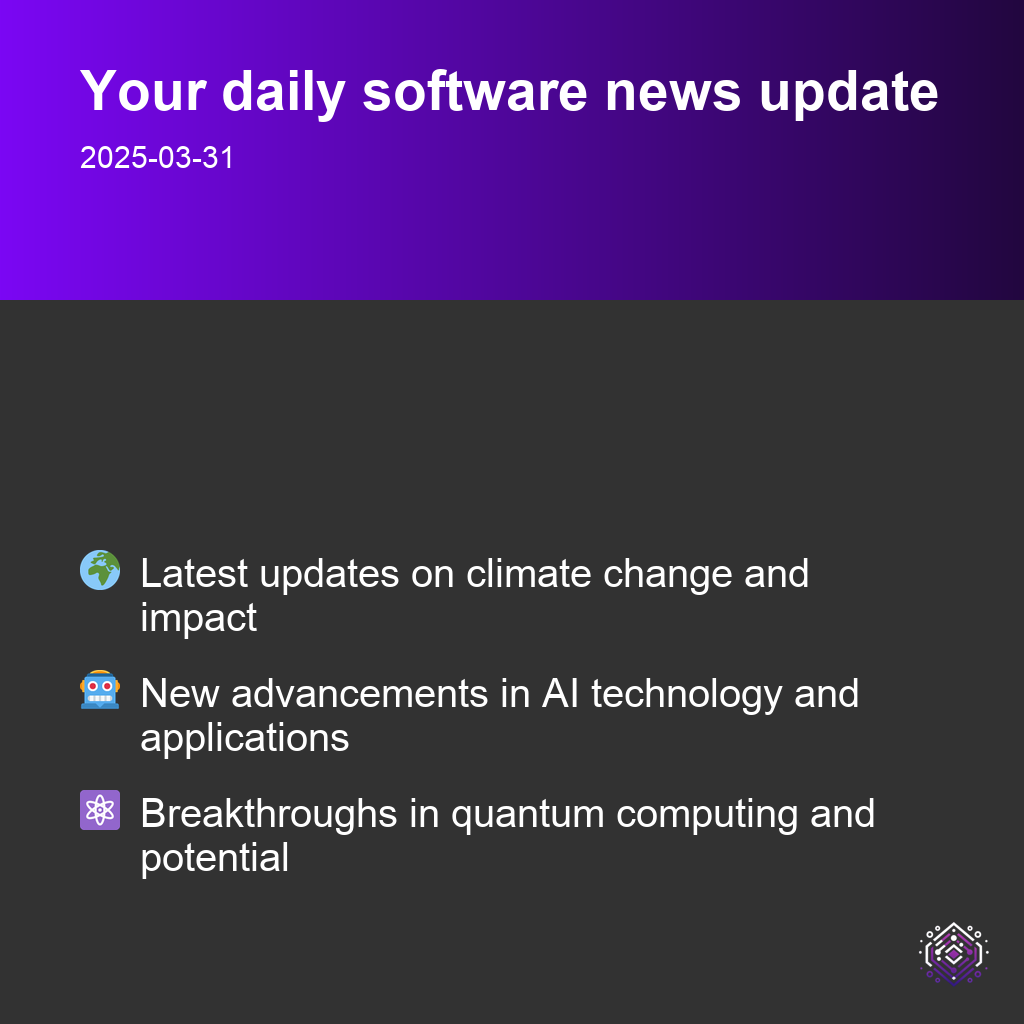
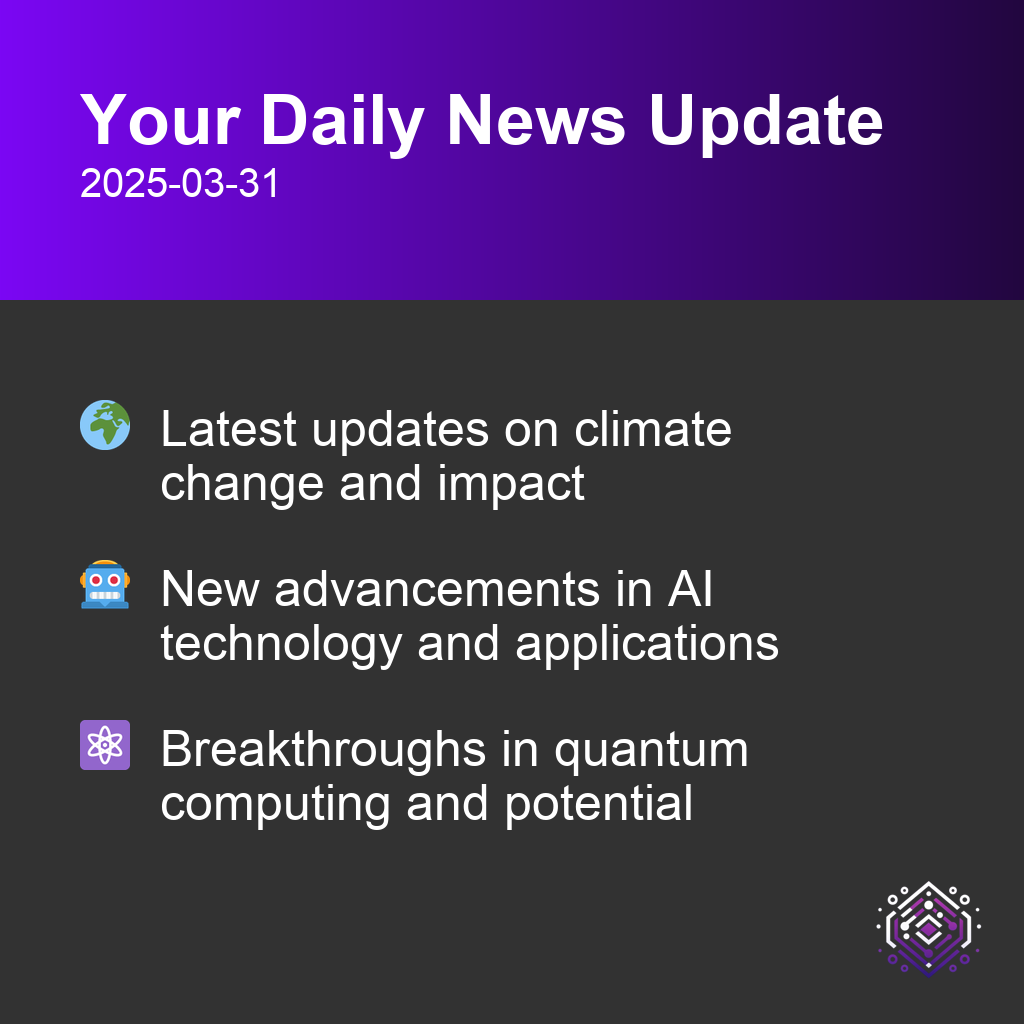
auto commit

diff --git a/src/buildPost/create_image.py b/src/buildPost/create_image.py
@@ -1,90 +1,76 @@
 from PIL import Image, ImageDraw, ImageFont
 from datetime import datetime
 from pilmoji import Pilmoji
-import textwrap  # Import textwrap for wrapping text
+import textwrap 
 
 
 def create_image(news_topics, output_dir):
     logo_path = 'assets/logo_no_background.png'
 
-    # Load the logo
     logo = Image.open(logo_path)
-    logo_size = 100  # Set the logo size to 100x100 pixels
+    logo_size = 150 
     logo = logo.resize((logo_size, logo_size))
 
-    # Create a new image
-    img_size = 1024  # Set the image size to 1024x1024 pixels for a square image
+    img_size = 1024 
     img = Image.new('RGB', (img_size, img_size), color=(128, 0, 128))
     draw = ImageDraw.Draw(img)
 
-    # Create a horizontal gradient background (left-to-right) at the top
-    top_gradient_height = 300  # Height of the gradient section
+    top_gradient_height = 300 
     for x in range(img_size):
         r = 123 + (34 - 123) * x / img_size
         g = 6 + (6 - 6) * x / img_size
         b = 244 + (63 - 244) * x / img_size
         draw.line([(x, 0), (x, top_gradient_height)], fill=(int(r), int(g), int(b)))
 
-    # Fill the bottom section with dark grey for the headlines
     headline_section_top = top_gradient_height
     draw.rectangle(
         [(0, headline_section_top), (img_size, img_size)],
-        fill=(50, 50, 50)  # Dark grey color
+        fill=(50, 50, 50)
     )
 
-    # Define padding
-    left_padding = 80  # Increased padding for the left
-    top_padding = 60   # Significantly increased padding for the top
+    left_padding = 80
+    top_padding = 80
 
-    # Add headline with updated padding and larger font size
-    bold_font = ImageFont.truetype("assets/arialBold.ttf", 55)
-    draw.text((left_padding, top_padding), "Your daily software news update", fill="white", font=bold_font)
+    bold_font = ImageFont.truetype("assets/arialBold.ttf", 70) 
+    draw.text((left_padding, top_padding), "Your Daily News Update", fill="white", font=bold_font)
 
-    # Add date with updated padding and larger font size
-    date_font = ImageFont.truetype("assets/arial.ttf", 30)  # Increased font size for the date
+    date_font = ImageFont.truetype("assets/arial.ttf", 40)
     today_date = datetime.now().strftime("%Y-%m-%d")
     draw.text((left_padding, top_padding + 80), today_date, fill="white", font=date_font)
 
-    # Add news topics dynamically using Pilmoji for colored emojis
-    headline_font = ImageFont.truetype("assets/arial.ttf", 40)
-    max_width = 40
-    text_start_offset = left_padding + 60
-    headline_section_top_offset = headline_section_top + 250
+    headline_font = ImageFont.truetype("assets/arial.ttf", 50) 
+    max_width = 31
+    text_start_offset = left_padding + 80
+    headline_section_top_offset = headline_section_top + 100
 
     with Pilmoji(img) as pilmoji:
         for i, topic in enumerate(news_topics):
-            # Add icon and headline
             icon = topic.get("icon", "")
             headline = topic.get("headline", "No headline")
 
-            # Wrap the headline text
             wrapped_headline = textwrap.fill(headline, width=max_width)
 
-            # Render the icon
             pilmoji.text(
-                (left_padding, headline_section_top_offset + i * 120),  # Position for the icon
+                (left_padding, headline_section_top_offset + i * 160), 
                 icon,
                 fill="white",
                 font=headline_font
             )
 
-            # Render the wrapped headline, starting after the icon
             pilmoji.text(
-                (text_start_offset, headline_section_top_offset + i * 120),  # Position for the text
+                (text_start_offset, headline_section_top_offset + i * 160), 
                 wrapped_headline,
                 fill="white",
                 font=headline_font
             )
 
-    # Place the logo in the lower right corner with a smaller margin
-    margin = 20  # Margin from the edges
+    margin = 20
     img.paste(
         logo,
         (img.width - logo.width - margin, img.height - logo.height - margin),
         logo
     )
 
-    # Save the image
     file_path = f"{output_dir}/image.png"
     img.save(file_path)
     print(f"Image saved successfully to {file_path}")
